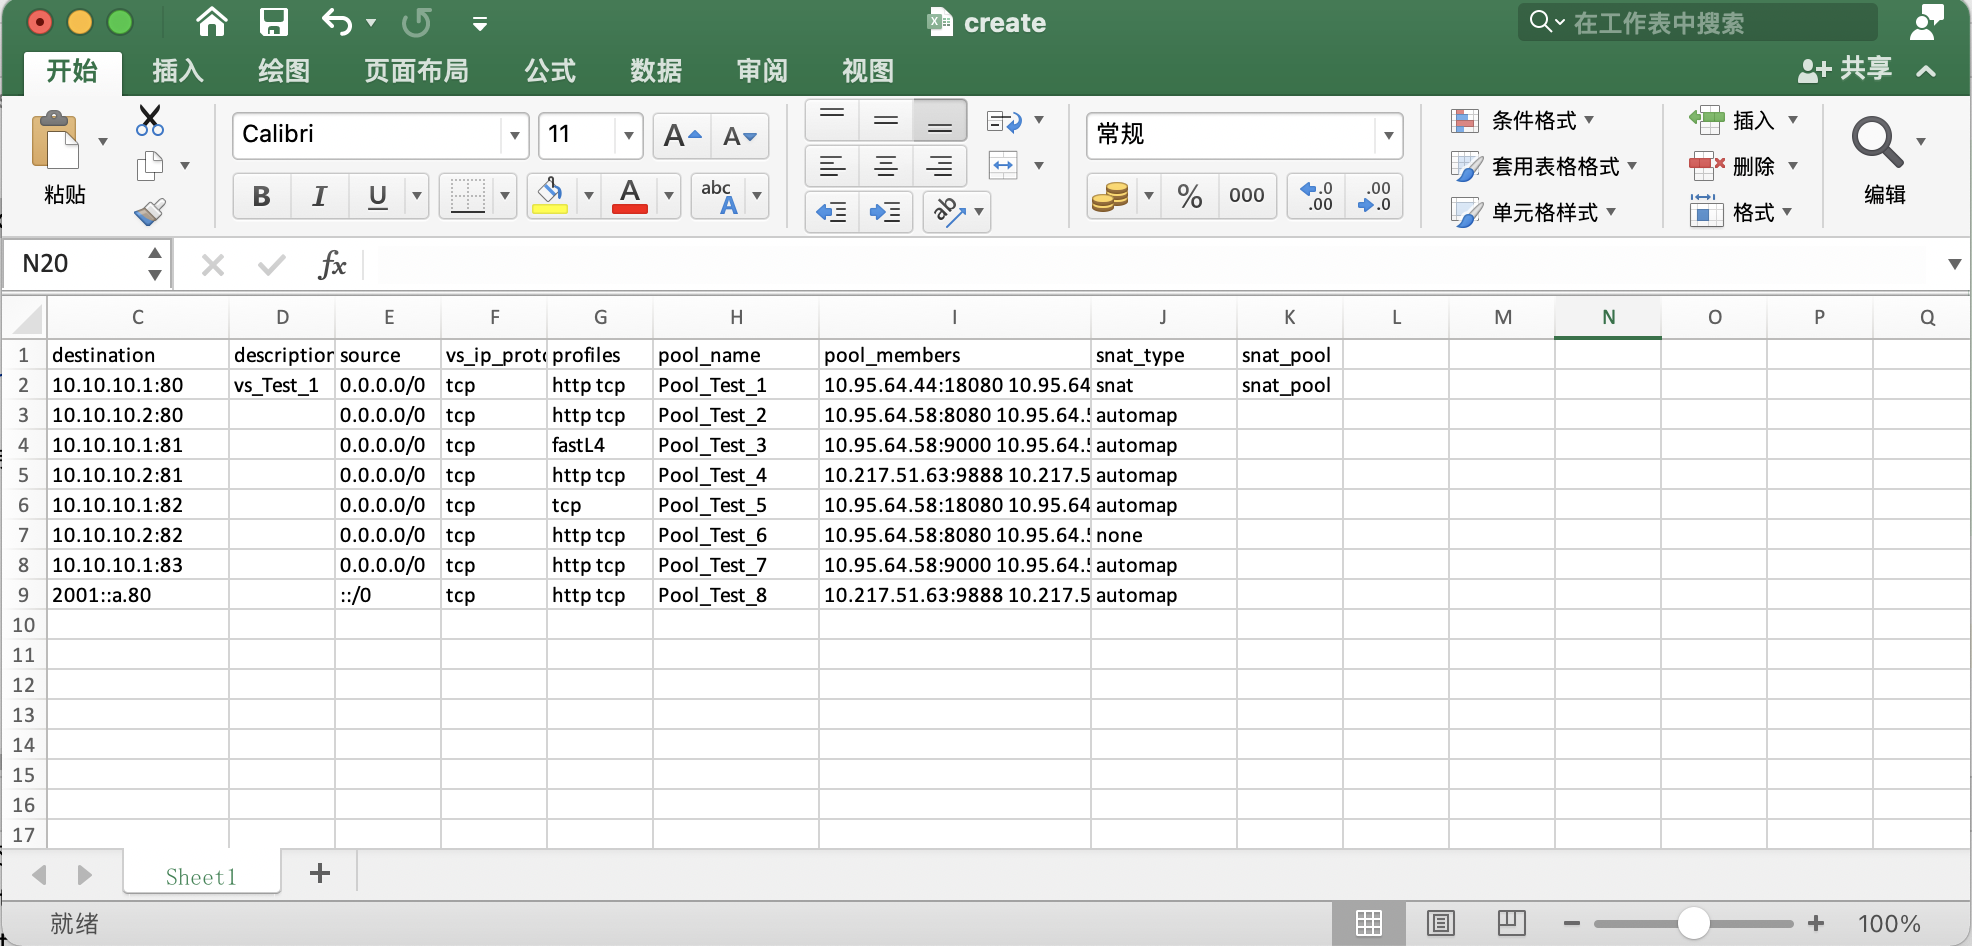
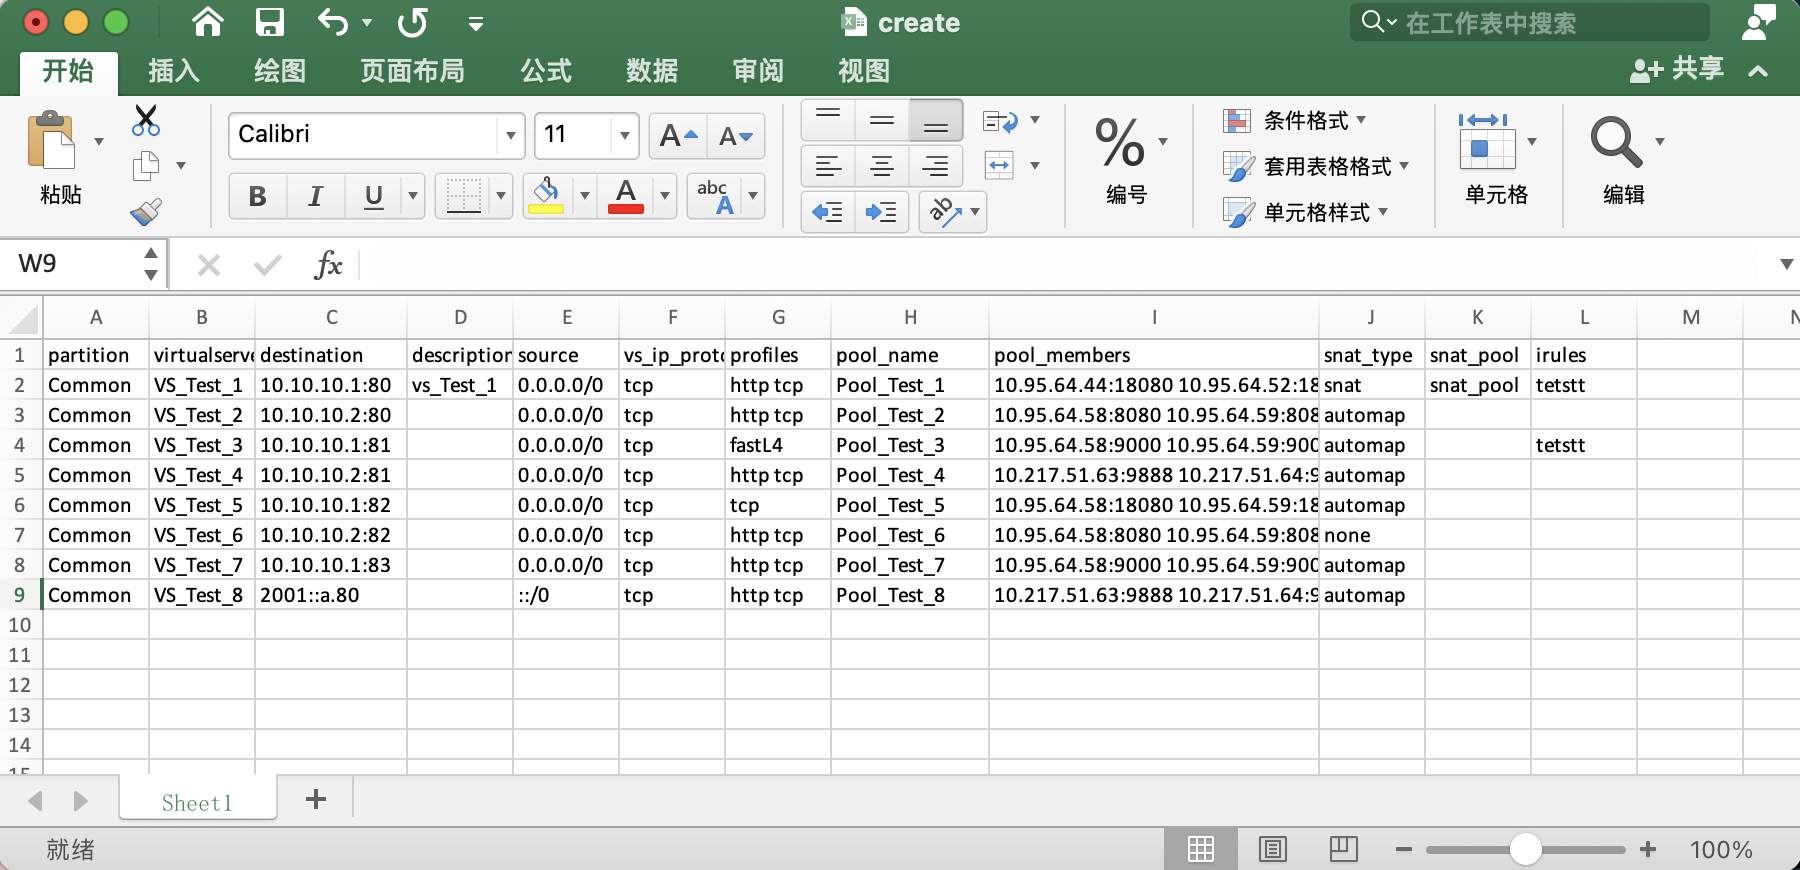
Initial commit

Changed region(s): [[0.0, 0.0, 1.0, 1.0], [0.7467, 0.0, 0.9022, 0.0621]]

diff --git a/ltm/ltm.go b/ltm/ltm.go
@@ -34,6 +34,7 @@ type VirtualServer struct {
 	PoolMembers       string `json:"pool_members" xlsx:"pool_members"`
 	SnatType          string `json:"snat_type" xlsx:"snat_type"`
 	SnatPool          string `json:"snatpool" xlsx:"snat_pool"`
+	IRules            string `json:"irules" xlsx:"irules"`
 }
 
 func init() {
@@ -185,6 +186,8 @@ func StructToStruct(server ltm.VirtualServer, snatpoolname string, poolmembers [
 	poolName := StringSplitSubString(server.Pool)
 	destination := StringSplitSubString(server.Destination)
 	poolMembers := SliceToString(poolmembers)
+	irulescommon := SliceToString(server.Rules)
+	irules := StringSplitSubString(irulescommon)
 
 	return VirtualServer{
 		Partition:         server.Partition,
@@ -197,5 +200,6 @@ func StructToStruct(server ltm.VirtualServer, snatpoolname string, poolmembers [
 		PoolMembers:       poolMembers,
 		SnatPool:          snatpoolname,
 		SnatType:          server.SourceAddressTranslation.Type,
+		IRules:            irules,
 	}
 }
